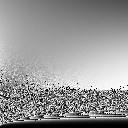
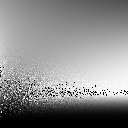
finish homework4 part 1

Changed region(s): [[0.0, 0.4688, 1.0, 1.0]]

diff --git a/homework4/src/engine.js b/homework4/src/engine.js
@@ -97,7 +97,7 @@ async function GAMES202Main() {
 
 	let metallic = 1.0;
 	let Sphere0Transform = setTransform(180, 60, 0, 180, 180, 180, 0, Math.PI, 0);
-	//loadGLTF(renderer, 'assets/ball/', 'ball', 'KullaContyMaterial', Sphere0Transform, metallic, 0.15);
+	loadGLTF(renderer, 'assets/ball/', 'ball', 'KullaContyMaterial', Sphere0Transform, metallic, 0.15);
 	let Sphere1Transform = setTransform(100, 60, 0, 180, 180, 180, 0, Math.PI, 0);
 	loadGLTF(renderer, 'assets/ball/', 'ball', 'KullaContyMaterial', Sphere1Transform, metallic, 0.35);
 	let Sphere2Transform = setTransform(20, 60, 0, 180, 180, 180, 0, Math.PI, 0);
@@ -108,7 +108,7 @@ async function GAMES202Main() {
 	loadGLTF(renderer, 'assets/ball/', 'ball', 'KullaContyMaterial', Sphere4Transform, metallic, 0.95);
 
 	let Sphere5Transform = setTransform(180, -60, 0, 180, 180, 180, 0, Math.PI, 0);
-	//loadGLTF(renderer, 'assets/ball/', 'ball', 'PBRMaterial', Sphere5Transform, metallic, 0.15);
+	loadGLTF(renderer, 'assets/ball/', 'ball', 'PBRMaterial', Sphere5Transform, metallic, 0.15);
 	let Sphere6Transform = setTransform(100, -60, 0, 180, 180, 180, 0, Math.PI, 0);
 	loadGLTF(renderer, 'assets/ball/', 'ball', 'PBRMaterial', Sphere6Transform, metallic, 0.35);
 	let Sphere7Transform = setTransform(20, -60, 0, 180, 180, 180, 0, Math.PI, 0);

diff --git a/homework4/src/materials/KullaContyMaterial.js b/homework4/src/materials/KullaContyMaterial.js
@@ -7,6 +7,7 @@ class KullaContyMaterial extends Material {
             'uRoughness': { type: '1f', value: roughness },
             'uBRDFLut': { type: 'texture', value: BRDFLut },
             'uEavgFLut': { type: 'texture', value: EavgLut },
+            'uEavgLut': { type: 'texture', value: EavgLut },
             
             'uCubeTexture': { type: 'CubeTexture', value: null },
             'uLightRadiance': { type: '3fv', value: light.lightRadiance },

diff --git a/homework4/lut-gen/Emu_MC.cpp b/homework4/lut-gen/Emu_MC.cpp
@@ -31,7 +31,7 @@ samplePoints squareToCosineHemisphere(int sample_count){
             double sampley = (p + rng(gen)) / sample_side;
             
             double theta = 0.5f * acos(1 - 2*samplex);
-            double phi =  2 * M_PI * sampley;
+            double phi =  2 * PI * sampley;
             Vec3f wi = Vec3f(sin(theta) * cos(phi), sin(theta) * sin(phi), cos(theta));
             float pdf = wi.z / PI;
             
@@ -83,18 +83,30 @@ Vec3f IntegrateBRDF(Vec3f V, float roughness, float NdotV) {
     samplePoints sampleList = squareToCosineHemisphere(sample_count);
     for (int i = 0; i < sample_count; i++) {
       // TODO: To calculate (fr * ni) / p_o here
-      
+      Vec3f wi = normalize(sampleList.directions[i]);
+      Vec3f wo = normalize(V);
+
+      float ndotl = dot(wi, N); 
+      float G = GeometrySmith(roughness, NdotV, ndotl);
+      Vec3f H = normalize(wi + wo);
+      float D = DistributionGGX(N, H, roughness);
+
+      float fr = D * G / (4 * NdotV *sampleList.PDFs[i]);
+      A += fr;
+      B += fr;
+      C += fr;
     }
 
     return {A / sample_count, B / sample_count, C / sample_count};
 }
 
 int main() {
+
     uint8_t data[resolution * resolution * 3];
     float step = 1.0 / resolution;
     for (int i = 0; i < resolution; i++) {
+		float roughness = step * (static_cast<float>(i) + 0.5f);
         for (int j = 0; j < resolution; j++) {
-            float roughness = step * (static_cast<float>(i) + 0.5f);
             float NdotV = step * (static_cast<float>(j) + 0.5f);
             Vec3f V = Vec3f(std::sqrt(1.f - NdotV * NdotV), 0.f, NdotV);
 

diff --git a/homework4/lut-gen/Eavg_MC.cpp b/homework4/lut-gen/Eavg_MC.cpp
@@ -46,7 +46,7 @@ samplePoints squareToCosineHemisphere(int sample_count){
             double sampley = (p + rng(gen)) / sample_side;
             
             double theta = 0.5f * acos(1 - 2*samplex);
-            double phi =  2 * M_PI * sampley;
+            double phi =  2 * PI * sampley;
             Vec3f wi = Vec3f(sin(theta) * cos(phi), sin(theta) * sin(phi), cos(theta));
             float pdf = wi.z / PI;
             
@@ -82,7 +82,7 @@ Vec3f IntegrateEmu(Vec3f V, float roughness, float NdotV, Vec3f Ei) {
         
     }
 
-    return Eavg / sample_count;
+    return Ei * NdotV * 2.0f;
 }
 
 
@@ -100,7 +100,7 @@ int main() {
         // | 
         // | rough（i）
         // flip it if you want to write the data on picture 
-        uint8_t data[resolution * resolution * 3];
+        uint8_t* data = new uint8_t[resolution * resolution * 3];
         float step = 1.0 / resolution;
         Vec3f Eavg = Vec3f(0.0);
 		for (int i = 0; i < resolution; i++) 
